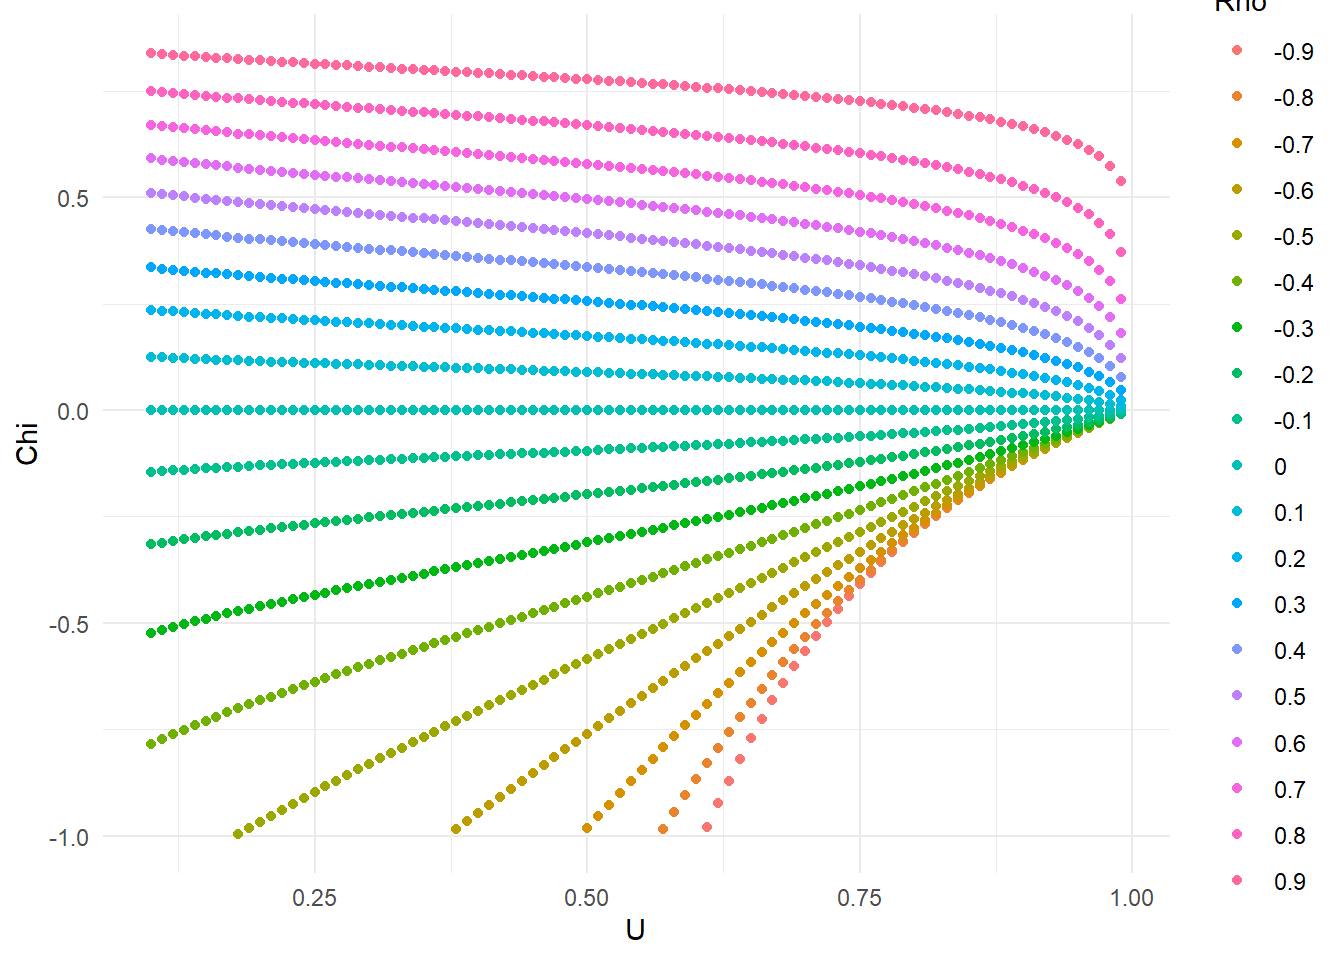
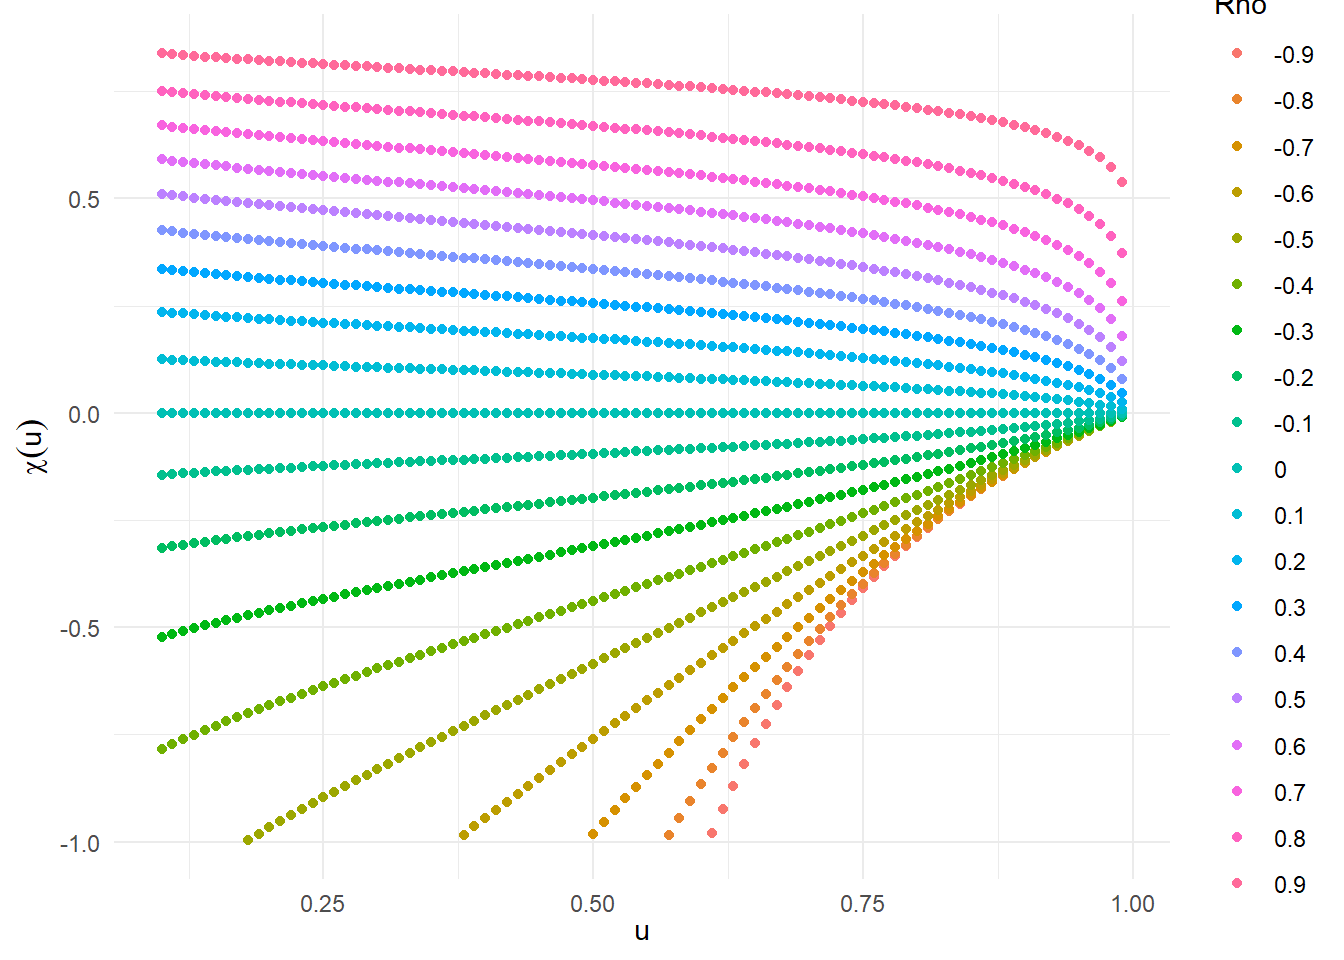
Render (update)

diff --git a/Extreme_dependence_paper.html b/Extreme_dependence_paper.html
@@ -271,7 +271,7 @@ Warning in log(2 * u - 1): NaNs produced</code></pre>
 <span id="cb15-3"><a href="#cb15-3" aria-hidden="true" tabindex="-1"></a><span class="co"># subset to remove \chi(u)&lt;-1 to match Coles' paper</span></span>
 <span id="cb15-4"><a href="#cb15-4" aria-hidden="true" tabindex="-1"></a>df <span class="ot">&lt;-</span> df[Chi<span class="sc">&gt;=-</span><span class="dv">1</span>,]</span>
 <span id="cb15-5"><a href="#cb15-5" aria-hidden="true" tabindex="-1"></a><span class="co"># ggplot requires prepared data before plotting</span></span>
-<span id="cb15-6"><a href="#cb15-6" aria-hidden="true" tabindex="-1"></a><span class="fu">ggplot</span>(df) <span class="sc">+</span> <span class="fu">geom_point</span>(<span class="fu">aes</span>(<span class="at">x=</span>U,<span class="at">y=</span>Chi,<span class="at">color=</span>Rho))</span></code><button title="Copy to Clipboard" class="code-copy-button"><i class="bi"></i></button></pre></div>
+<span id="cb15-6"><a href="#cb15-6" aria-hidden="true" tabindex="-1"></a><span class="fu">ggplot</span>(df) <span class="sc">+</span> <span class="fu">geom_point</span>(<span class="fu">aes</span>(<span class="at">x=</span>U,<span class="at">y=</span>Chi,<span class="at">color=</span>Rho)) <span class="sc">+</span> <span class="fu">xlab</span>(<span class="fu">TeX</span>(<span class="st">"$u$"</span>)) <span class="sc">+</span> <span class="fu">ylab</span>(<span class="fu">TeX</span>(<span class="st">"$</span><span class="sc">\\</span><span class="st">chi(u)$"</span>))</span></code><button title="Copy to Clipboard" class="code-copy-button"><i class="bi"></i></button></pre></div>
 <div class="cell-output-display">
 <p><img src="Extreme_dependence_paper_files/figure-html/unnamed-chunk-5-1.png" class="img-fluid" width="672"></p>
 </div>
@@ -372,7 +372,41 @@ Warning in log(2 * u - 1): NaNs produced</code></pre>
 <h3 class="anchored" data-anchor-id="dependence-measure-barchiu">Dependence measure <span class="math inline">\(\Bar{\chi}(u)\)</span></h3>
 <p>Theoretical part of the paper involves plotting the dependence measures <span class="math inline">\(\chi(u)\)</span> and <span class="math inline">\(\Bar{\chi(u)}\)</span>.</p>
 <div class="cell">
-
+<div class="sourceCode cell-code" id="cb18"><pre class="sourceCode r code-with-copy"><code class="sourceCode r"><span id="cb18-1"><a href="#cb18-1" aria-hidden="true" tabindex="-1"></a><span class="co"># for loop for diff values of rho</span></span>
+<span id="cb18-2"><a href="#cb18-2" aria-hidden="true" tabindex="-1"></a>U <span class="ot">&lt;-</span> <span class="fu">c</span>()</span>
+<span id="cb18-3"><a href="#cb18-3" aria-hidden="true" tabindex="-1"></a>Chi <span class="ot">&lt;-</span> <span class="fu">c</span>()</span>
+<span id="cb18-4"><a href="#cb18-4" aria-hidden="true" tabindex="-1"></a>Rho <span class="ot">&lt;-</span> <span class="fu">c</span>()</span>
+<span id="cb18-5"><a href="#cb18-5" aria-hidden="true" tabindex="-1"></a>edge <span class="ot">&lt;-</span> <span class="dv">10</span><span class="sc">^</span>(<span class="sc">-</span><span class="dv">6</span>)</span>
+<span id="cb18-6"><a href="#cb18-6" aria-hidden="true" tabindex="-1"></a>rho_vec <span class="ot">&lt;-</span> <span class="fu">seq</span>(<span class="sc">-</span><span class="fl">0.9</span>,<span class="fl">0.9</span>,<span class="fl">0.1</span>)</span>
+<span id="cb18-7"><a href="#cb18-7" aria-hidden="true" tabindex="-1"></a><span class="cf">for</span> (i <span class="cf">in</span> <span class="dv">1</span><span class="sc">:</span><span class="fu">length</span>(rho_vec)) {</span>
+<span id="cb18-8"><a href="#cb18-8" aria-hidden="true" tabindex="-1"></a>rho <span class="ot">&lt;-</span> rho_vec[i]</span>
+<span id="cb18-9"><a href="#cb18-9" aria-hidden="true" tabindex="-1"></a>u <span class="ot">&lt;-</span> <span class="fu">c</span>(<span class="fu">seq</span>(<span class="dv">0</span><span class="sc">+</span>edge,<span class="fl">0.95</span>,<span class="fl">0.01</span>),<span class="fu">seq</span>(<span class="fl">0.95</span>,<span class="dv">1</span><span class="sc">-</span>edge,<span class="fl">0.001</span>))</span>
+<span id="cb18-10"><a href="#cb18-10" aria-hidden="true" tabindex="-1"></a><span class="co"># calculate the copula using VGAM package</span></span>
+<span id="cb18-11"><a href="#cb18-11" aria-hidden="true" tabindex="-1"></a>c_uu <span class="ot">&lt;-</span> <span class="dv">1-2</span><span class="sc">*</span>u<span class="sc">+</span><span class="fu">pbinormcop</span>(<span class="at">q1=</span>u,<span class="at">q2=</span>u,<span class="at">rho=</span>rho)</span>
+<span id="cb18-12"><a href="#cb18-12" aria-hidden="true" tabindex="-1"></a><span class="co"># calculate chi(u)</span></span>
+<span id="cb18-13"><a href="#cb18-13" aria-hidden="true" tabindex="-1"></a>chi <span class="ot">&lt;-</span> <span class="sc">-</span><span class="dv">1</span><span class="sc">+</span> (<span class="dv">2</span><span class="sc">*</span><span class="fu">log</span>(<span class="dv">1</span><span class="sc">-</span>u))<span class="sc">/</span>(<span class="fl">7.9999</span><span class="sc">^</span>(<span class="sc">-</span><span class="dv">1</span>)<span class="sc">*</span><span class="fu">log</span>(c_uu<span class="sc">^</span>(<span class="fl">7.9999</span>)))</span>
+<span id="cb18-14"><a href="#cb18-14" aria-hidden="true" tabindex="-1"></a><span class="co">#u &lt;- u[chi&gt;-10^6]</span></span>
+<span id="cb18-15"><a href="#cb18-15" aria-hidden="true" tabindex="-1"></a><span class="co">#chi &lt;- chi[chi&gt;-10^6]</span></span>
+<span id="cb18-16"><a href="#cb18-16" aria-hidden="true" tabindex="-1"></a><span class="co"># subset by Frechet bounds (lower bound is sufficient)</span></span>
+<span id="cb18-17"><a href="#cb18-17" aria-hidden="true" tabindex="-1"></a><span class="co">#lower_bound1 &lt;- chi&gt;(2-(log(2*u-1))/(log(u)))</span></span>
+<span id="cb18-18"><a href="#cb18-18" aria-hidden="true" tabindex="-1"></a><span class="co">#lower_bound &lt;- lower_bound1 %&gt;% replace(is.na(.), TRUE)</span></span>
+<span id="cb18-19"><a href="#cb18-19" aria-hidden="true" tabindex="-1"></a><span class="co"># add items to a list</span></span>
+<span id="cb18-20"><a href="#cb18-20" aria-hidden="true" tabindex="-1"></a>U <span class="ot">&lt;-</span> <span class="fu">append</span>(U,u)</span>
+<span id="cb18-21"><a href="#cb18-21" aria-hidden="true" tabindex="-1"></a>Chi <span class="ot">&lt;-</span> <span class="fu">append</span>(Chi,chi)</span>
+<span id="cb18-22"><a href="#cb18-22" aria-hidden="true" tabindex="-1"></a>Rho <span class="ot">&lt;-</span> <span class="fu">append</span>(Rho,<span class="fu">rep</span>(rho_vec[i],<span class="fu">length</span>(u)))</span>
+<span id="cb18-23"><a href="#cb18-23" aria-hidden="true" tabindex="-1"></a>}</span>
+<span id="cb18-24"><a href="#cb18-24" aria-hidden="true" tabindex="-1"></a><span class="co">#p &lt;- p + geom_line(data=df,mapping = aes(x=u,y=chi))</span></span>
+<span id="cb18-25"><a href="#cb18-25" aria-hidden="true" tabindex="-1"></a>df <span class="ot">&lt;-</span> <span class="fu">data.frame</span>(U,Chi,<span class="at">Rho=</span><span class="fu">as.factor</span>(Rho))</span>
+<span id="cb18-26"><a href="#cb18-26" aria-hidden="true" tabindex="-1"></a><span class="co"># subset to remove \chi(u)&lt;-1 to match Coles' paper</span></span>
+<span id="cb18-27"><a href="#cb18-27" aria-hidden="true" tabindex="-1"></a>df <span class="ot">&lt;-</span> df[Chi<span class="sc">&gt;=-</span><span class="dv">1</span>,]</span>
+<span id="cb18-28"><a href="#cb18-28" aria-hidden="true" tabindex="-1"></a><span class="co"># ggplot requires prepared data before plotting</span></span>
+<span id="cb18-29"><a href="#cb18-29" aria-hidden="true" tabindex="-1"></a><span class="fu">ggplot</span>(df) <span class="sc">+</span> <span class="fu">geom_point</span>(<span class="fu">aes</span>(<span class="at">x=</span>U,<span class="at">y=</span>Chi,<span class="at">color=</span>Rho)) <span class="sc">+</span> <span class="fu">xlab</span>(<span class="fu">TeX</span>(<span class="st">"$u$"</span>)) <span class="sc">+</span> <span class="fu">ylab</span>(<span class="fu">TeX</span>(<span class="st">"$</span><span class="sc">\\</span><span class="st">Bar{</span><span class="sc">\\</span><span class="st">chi}(u)$"</span>))</span></code><button title="Copy to Clipboard" class="code-copy-button"><i class="bi"></i></button></pre></div>
+<div class="cell-output cell-output-stderr">
+<pre><code>Warning: Removed 95 rows containing missing values (`geom_point()`).</code></pre>
+</div>
+<div class="cell-output-display">
+<p><img src="Extreme_dependence_paper_files/figure-html/unnamed-chunk-8-1.png" class="img-fluid" width="672"></p>
+</div>
 </div>
 </section>
 
